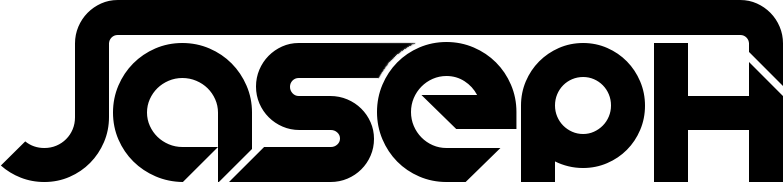
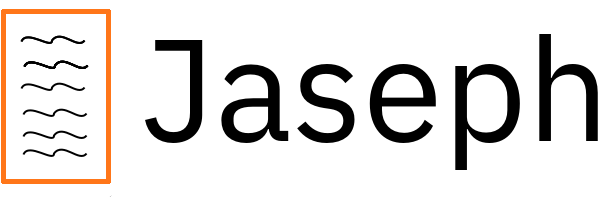
Design overhaul

diff --git a/style/normal.css b/style/normal.css
@@ -1,49 +1,64 @@
-html {
-    position: relative;
+* {
+    box-sizing: border-box;
     padding: 0;
     margin: 0;
-    background: #f1f1f1;
-    color: #000;
-    font-family: "Open Sans";
+}
+
+html {
+    padding: 0;
+    margin: 0;
+    background: white;
+    color: #212121;
+    font-family: "Lato", sans-serif;
     min-height: 100%;
 }
 
 body {
-    background: #f1f1f1;
-    margin-bottom: 25px;
-    height: 100%;
-    overflow-x: hidden;
-}
-
-#header {
-    background: #fff;
-    height: 25px;
-    width: 100%;
-    padding: 10px;
-    position: absolute;
-    text-align: center;
-    top: 0;
-    left: 0;
-    overflow: hidden;
-    border-bottom: 1px solid #e2e2e2;
-}
-
-#header a {
-    text-decoration: none;
-    color: #000;
-}
-
-#header a #headerimg {
-    height: 25px;
+    padding: 0;
     margin: 0;
 }
 
-#header #themeselector {
+#head-wrap {
+    position: relative;
+    width: 100vw;
+    height: 10vh;
+    box-shadow: 0 2px 6px 0 rgba(0, 0, 0, .12), inset 0 -1px 0 0 #dadce0;
+}
+
+#head-logo {
+    width: 10vw;
+    min-width: 100px;
     position: absolute;
-    right: 0;
-    margin-right: 30px;
-    cursor: pointer;
-    height: 25px;
+    left: 3vw;
+    top: 50%;
+    transform: translateY(-50%);
+}
+
+#btn-holder {
+    position: absolute;
+    right: 3vw;
+    top: 50%;
+    transform: translateY(-50%);
+}
+
+.btn {
+    margin: 0 10px;
+    border: none;
+    padding: 5px 10px;
+    font-size: 16px;
+    font-weight: bold;
+}
+
+#login {
+    background-color: transparent;
+    color: rgb(255, 118, 20);
+}
+
+#register {
+    background-color: rgb(255, 118, 20);
+    border: 2px solid rgb(255, 118, 20);
+    border-radius: 5px;
+    color: white;
 }
 
 .content {

diff --git a/require/header.php b/require/header.php
@@ -1,5 +1,7 @@
-
-  <div id="header">
-    <a href="../JasephCMS" title="jaseph"><img id="headerimg" src="assets/jaseph_black.png" alt=""/></a>
-    <img id="themeselector" src="assets/themes.png" onclick="swapStyle()" title="Change the page theme!" alt=""/>
-  </div>
+<div id="head-wrap">
+    <a href="index"><img id="head-logo" src="assets/jaseph_black.png"></a>
+    <div id="btn-holder">
+        <a href="login"><button id="login" class="btn">login</button></a>
+        <a href="register"><button id="register" class="btn">register</button></a>
+    </div>
+</div>

diff --git a/index.php b/index.php
@@ -7,6 +7,7 @@
 
 <body>
   <?php require 'require/header.php';?>
+
   <div class="content">
     <form action="newpost" method="POST"><button>New Post</button></form>
   </div>
